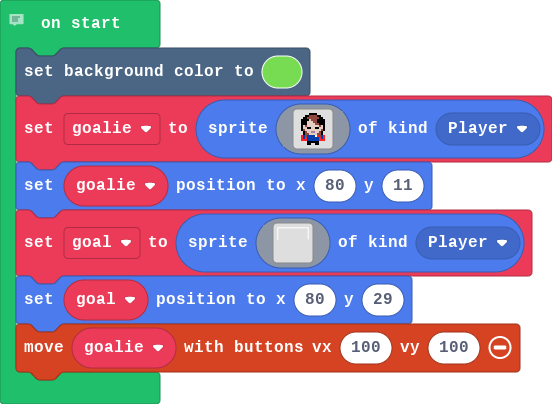
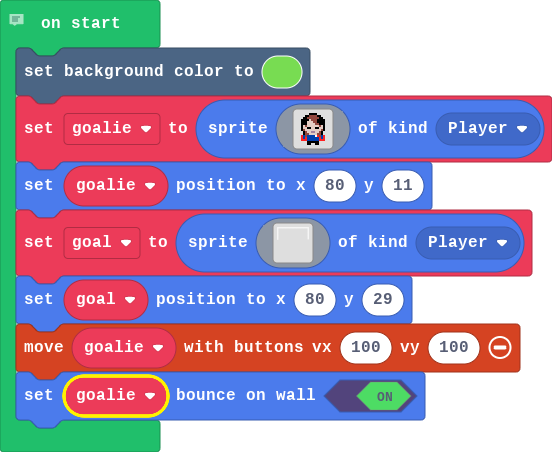
Update main.blocks, main.ts

diff --git a/main.ts b/main.ts
@@ -78,3 +78,4 @@ let goal = sprites.create(img`
     `, SpriteKind.Player)
 goal.setPosition(80, 29)
 controller.moveSprite(goalie, 100, 100)
+goalie.setBounceOnWall(true)
